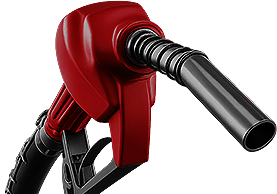
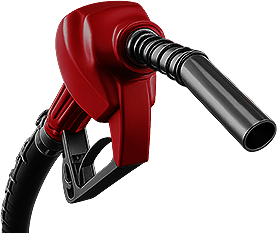
Enlarge pump graphic and shrink footer bar height
Re-slice pump art with more of it above the seam so the red footer
bar is shorter, and trim footer padding/gaps to match.

diff --git a/emailFillitv3.html b/emailFillitv3.html
@@ -143,8 +143,8 @@
               <!-- PUMP GRAPHIC (top slice) - sits directly above the footer seam, in normal flow -->
               <table border="0" cellpadding="0" cellspacing="0" width="100%" style="margin-top: 6px;">
                 <tr>
-                  <td align="right" style="padding: 0 145px 0 0;">
-                    <img src="https://github.com/dataAnalystFillit/emailFillit2/blob/main/pump-top.png?raw=true" alt="" width="150" height="105" style="display: block; border: 0; outline: none; width: 150px; height: 105px;" />
+                  <td align="right" style="padding: 0 75px 0 0;">
+                    <img src="https://github.com/dataAnalystFillit/emailFillit2/blob/main/pump-top.png?raw=true" alt="" width="190" height="160" style="display: block; border: 0; outline: none; width: 190px; height: 160px;" />
                   </td>
                 </tr>
               </table>
@@ -154,18 +154,18 @@
 
           <!-- FOOTER CONTACT BANNER (rounded top corners only, per reference) -->
           <tr>
-            <td bgcolor="#A52D37" style="background-color: #A52D37; padding: 0 20px 18px 20px; border-top-left-radius: 18px; border-top-right-radius: 18px;">
+            <td bgcolor="#A52D37" style="background-color: #A52D37; padding: 0 20px 10px 20px; border-top-left-radius: 18px; border-top-right-radius: 18px;">
 
               <!-- PUMP GRAPHIC (bottom slice) - continues the top slice from the body section above; flush with zero gap on both sides of the seam, and lines up via matching right inset (25px total on both) -->
               <table border="0" cellpadding="0" cellspacing="0" width="100%">
                 <tr>
-                  <td align="right" style="padding: 0 150px 0 0;">
-                    <img src="https://github.com/dataAnalystFillit/emailFillit2/blob/main/pump-bottom.png?raw=true" alt="" width="150" height="70" style="display: block; border: 0; outline: none; width: 150px; height: 70px;" />
+                  <td align="right" style="padding: 0 80px 0 0;">
+                    <img src="https://github.com/dataAnalystFillit/emailFillit2/blob/main/pump-bottom.png?raw=true" alt="" width="190" height="62" style="display: block; border: 0; outline: none; width: 190px; height: 62px;" />
                   </td>
                 </tr>
               </table>
 
-              <table border="0" cellpadding="0" cellspacing="0" width="100%" style="margin-top: 14px;">
+              <table border="0" cellpadding="0" cellspacing="0" width="100%" style="margin-top: 6px;">
                 <tr>
                   <!-- Left: WhatsApp / Phone Icons & Number -->
                   <td class="stack-column fb-text" align="left" valign="middle" style="background-color: #A52D37;">
